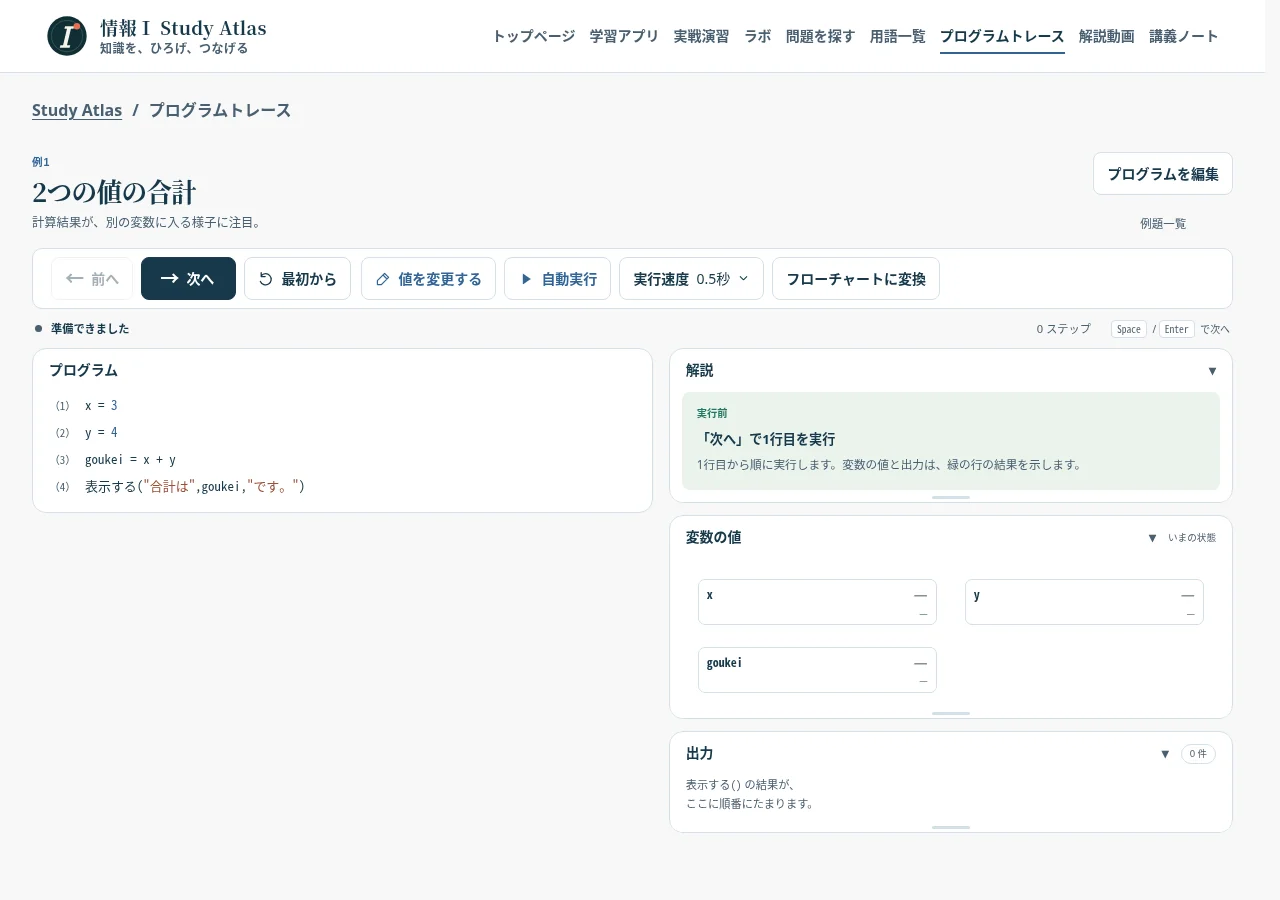
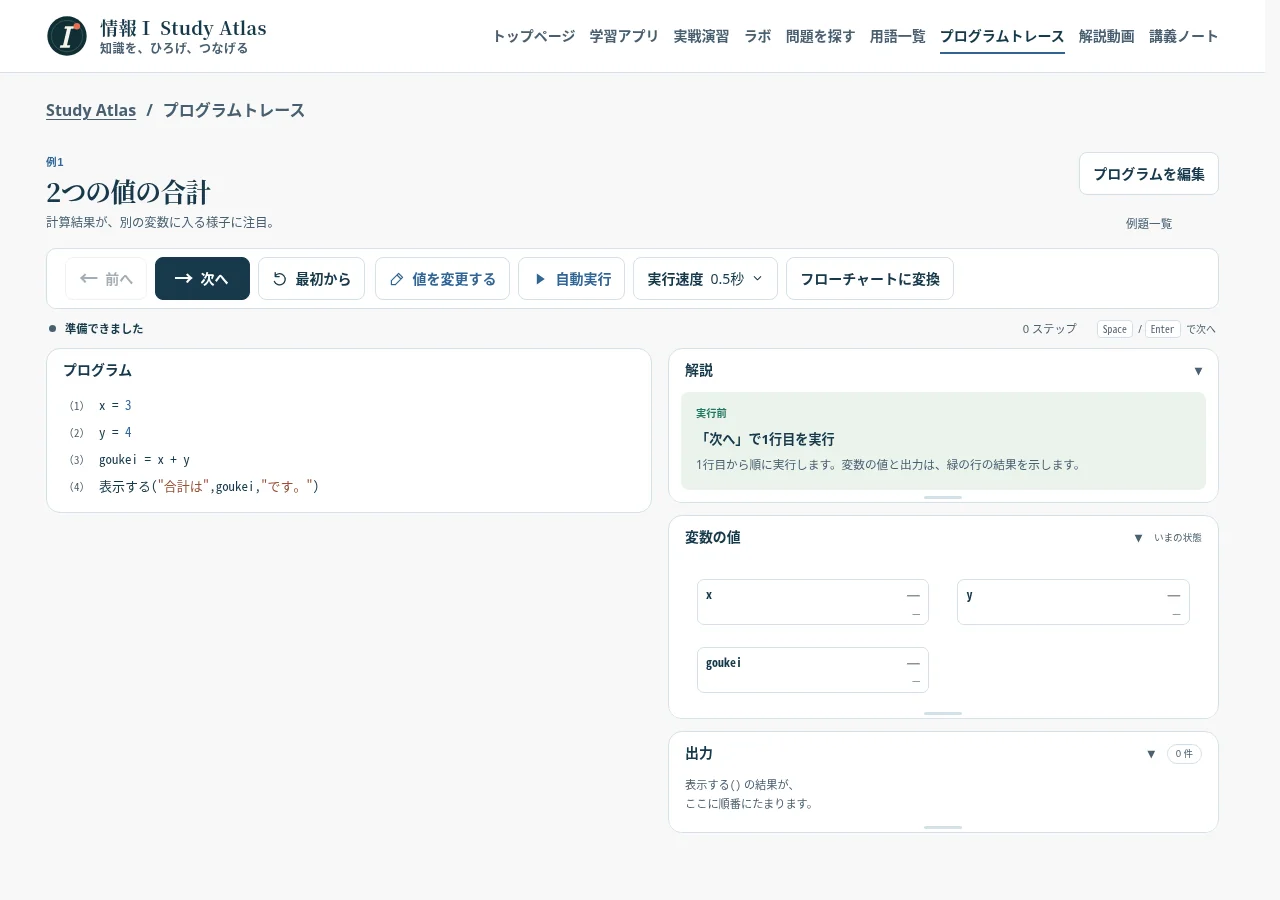
PCのコンテンツ幅と余白を揃え、トップを左揃えにする

diff --git a/assets/atlas-shell.css b/assets/atlas-shell.css
@@ -3,7 +3,7 @@
 .skip-link:focus { transform: none; }
 .site-header { position: sticky; z-index: 50; top: 0; border-bottom: 1px solid var(--atlas-line); background: var(--atlas-surface); transform: translateY(0); transition: transform .24s ease, box-shadow .24s ease; will-change: transform; }
 :is(.site-header, body > .app-mini-nav).is-header-hidden { transform: translateY(calc(-100% - 2px)); }
-.header-inner { width: min(var(--atlas-page), calc(100% - 2 * var(--atlas-gutter))); min-height: 72px; margin: 0 auto; display: flex; align-items: center; justify-content: space-between; gap: 24px; }
+.header-inner { width: var(--atlas-frame); min-height: 72px; margin: 0 auto; display: flex; align-items: center; justify-content: space-between; gap: 24px; }
 .brand { flex-shrink: 0; display: flex; align-items: center; gap: 12px; color: var(--atlas-ink); text-decoration: none; }
 .brand-mark { width: 42px; height: 42px; display: grid; place-items: center; color: transparent; background: url("./favicon.svg") center / contain no-repeat; font-size: 0; }
 .brand strong, .brand small { display: block; line-height: 1.25; }
@@ -91,6 +91,25 @@
 .footer-grid nav a { color: rgb(255 255 255 / 88%); font-size: .875rem; text-underline-offset: 5px; }
 .copyright { width: min(1180px, calc(100% - 40px)); margin: 32px auto 0; padding-top: 17px; border-top: 1px solid rgb(255 255 255 / 20%); color: rgb(255 255 255 / 74%); }
 
+
+/* Desktop pages share their outer frame. Reading columns and tools set their own inner layout. */
+@media screen and (min-width: 64rem) {
+  html { scrollbar-gutter: stable; }
+
+  body:not(.home-page) > main:is(#main-content, #main, #app) {
+    width: var(--atlas-frame);
+    max-width: none;
+    margin-inline: auto;
+  }
+
+  .footer-grid, .copyright { width: var(--atlas-frame); }
+  body > .app-mini-nav {
+    padding-inline: max(var(--atlas-gutter), calc((100% - var(--atlas-page)) / 2));
+  }
+  body > .app-mini-nav .app-mini-nav__menu {
+    right: max(var(--atlas-gutter), calc((100% - var(--atlas-page)) / 2));
+  }
+}
 
 @media (max-width: 68rem) {
   .header-inner { flex-direction: column; align-items: flex-start; gap: 2px; padding-top: 9px; }

diff --git a/lab/packet-routing/packet-routing.css b/lab/packet-routing/packet-routing.css
@@ -218,6 +218,9 @@
 .history-row summary { color: var(--amber-strong); cursor: pointer; }
 .model-note { max-width: 1050px; font-size: .7rem; color: var(--ink-soft); margin: 16px 0 0; }
 .lab-footer { width: min(1560px, calc(100% - 40px)); margin: auto; border-top: 1px solid var(--line); padding: 20px 0 30px; display: flex; justify-content: space-between; gap: 16px; font-size: .72rem; color: var(--ink-soft); }
+@media screen and (min-width: 64rem) {
+  .lab-footer { width: var(--atlas-frame); }
+}
 @media (max-width: 1150px) {
   .network-heading-tools { gap: 7px; }
   .legend { gap: 7px; }

diff --git a/assets/home.css b/assets/home.css
@@ -124,6 +124,12 @@
   outline-offset: 3px;
 }
 
+@media screen and (min-width: 64rem) {
+  .home-page { --home-width: var(--atlas-frame); }
+  .hero-copy { text-align: left; }
+  .hero-lead, .hero-about-link { margin-inline: 0; }
+}
+
 @media (max-width: 58rem) {
   .hero { gap: 1.5rem; }
   .home-action-grid, .home-misc-grid { grid-template-columns: repeat(2, minmax(0, 1fr)); }

diff --git a/assets/atlas-tokens.css b/assets/atlas-tokens.css
@@ -24,6 +24,7 @@
   --atlas-title: Georgia, "Hiragino Mincho ProN", "Yu Mincho", "Noto Serif CJK JP", serif;
   --atlas-gutter: clamp(1rem, 3.6vw, 3rem);
   --atlas-page: 74rem;
+  --atlas-frame: min(var(--atlas-page), calc(100% - 2 * var(--atlas-gutter)));
 }
 
 :where(a, button, input, select, textarea, summary, [tabindex]):focus-visible {

diff --git a/mock-exams/app.css b/mock-exams/app.css
@@ -1569,3 +1569,8 @@ button.column-clear {
   white-space: nowrap;
   padding-inline: min(2vw, 14px);
 }
+
+@media screen and (min-width: 64rem) {
+  #app { padding-inline: 0; }
+  .catalog-page, .history-page, .results { max-width: none; }
+}

diff --git a/assets/term-page.css b/assets/term-page.css
@@ -72,6 +72,10 @@
   margin: 18px auto 90px;
 }
 
+@media screen and (min-width: 64rem) {
+  .term-list-section { max-width: none; }
+}
+
 .term-list {
   margin: 0;
   padding: 0;

diff --git a/docs/design-review/README.md b/docs/design-review/README.md
@@ -4,11 +4,11 @@
 
 | 領域 | 主な変更 |
 | --- | --- |
-| トップ | キャッチコピーは公開版と同じ3行・赤茶で中央揃え。教材へのリンクカードは白地に濃紺の左罫線を入れ、サブ教材は小さめにする。その他は公開版と同じ幅210px。PC・タブレットでは従来の色付き円形図を表示。680px以下では図を省いて教材への導線を優先。主要教材3件、サブ教材、案内の順で入口を整理 |
+| トップ | キャッチコピーは公開版と同じ3行・赤茶。PCは左揃え、スマートフォンは中央揃え。教材へのリンクカードは白地に濃紺の左罫線を入れ、サブ教材は小さめにする。その他は公開版と同じ幅210px。PC・タブレットでは従来の色付き円形図を表示。680px以下では図を省いて教材への導線を優先。主要教材3件、サブ教材、案内の順で入口を整理 |
 | 共通UI・解説動画・書籍・案内 | 色・余白の基準、ヘッダー、現在地、フォーカス、本文と一覧の文字サイズを共通化 |
 | 用語一覧・用語記事 | 検索入力、表示条件、記事見出しを統一。お気に入り・既読・ハイライトの各状態を維持 |
 | 講義ノート | 独自ヘッダー・フッターを共通CSSへ移行。白地の表題、章の余白、用語への導線を整理 |
-| 学習アプリ・問題検索 | 紙面は白、リンクは青、学習開始・再挑戦は青紺に統一 |
+| 学習アプリ・問題検索 | 開始画面は左右とも白地、リンクは青、学習開始・再挑戦は青紺に統一 |
 | 実戦演習 | 受験モード・絞り込み・試験一覧の境界と文字を整理。問題冊子とPDFはそのまま使用 |
 | Interactive Lab | 分野内リンク、教材の説明、共通ヘルプ・見出し・ボタンを整理。可視化は各教材が管理 |
 | トレース・Studio | 実行画面と一覧の文字・背景に共通色を適用。実行状態・コード色は専用CSSに維持 |

diff --git a/docs/DESIGN.md b/docs/DESIGN.md
@@ -33,7 +33,9 @@
 
 通常の遷移はリンク、状態変更はボタンを使う。主要なリンク型ボタンには既存の button と button-primary クラス、補助操作には button と button-ghost を組み合わせる。ナビゲーションでは aria-current、押下状態では aria-pressed、開閉には details と summary を使う。状態は文字・記号・形でも判別できるようにする。フォームにはラベルを付け、入力文字は原則1rem、押しやすい高さは44pxを目安とする。
 
-画面左右は --atlas-gutter、カードや入力欄は --atlas-radius（10px）、境界は基本1px。カード間はおおむね12〜20px、セクション間は内容に応じて32〜64pxを使う。本文の区切りは細い罫線と見出しを基本とし、影を使う場合は --atlas-shadow を選ぶ。
+PCの外枠は --atlas-frame で揃える。左右の余白は --atlas-gutter で確保し、最大幅は74remとする。長文には本文の読み幅を設定できる。
+
+カードや入力欄は --atlas-radius（10px）、境界は基本1px。カード間はおおむね12〜20px、セクション間は内容に応じて32〜64pxを使う。本文の区切りは細い罫線と見出しを基本とし、影を使う場合は --atlas-shadow を選ぶ。
 
 ## 新しい教材を加えるとき
 
